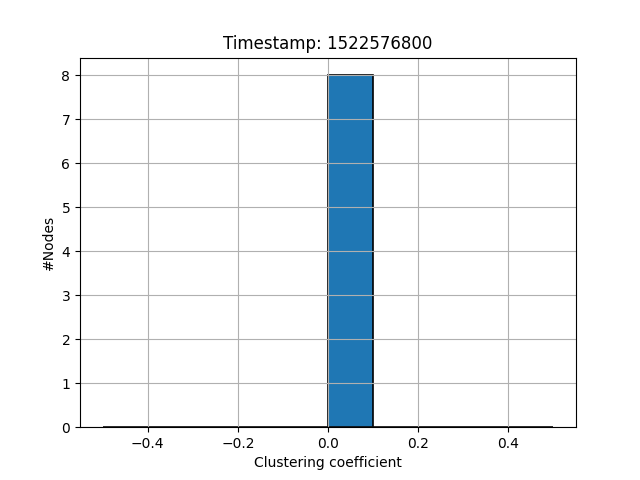
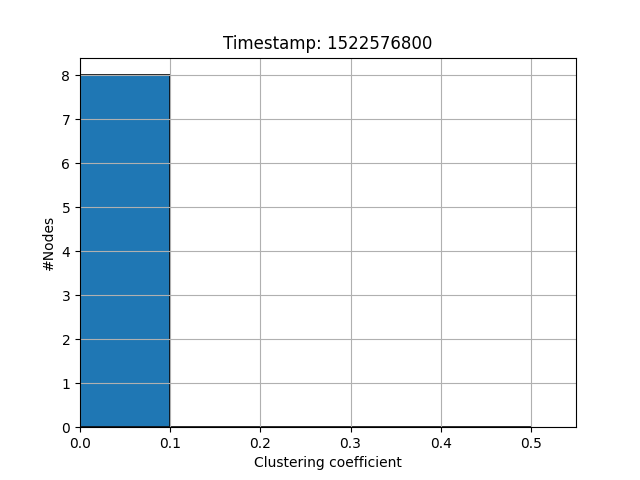
clustering coeff plots

diff --git a/analysis/betweenness.py b/analysis/betweenness.py
@@ -38,6 +38,7 @@ def draw_histogram(df, title, filePath):
     # print('Bins: ', bins)
     axarr = df.hist(bins=10, edgecolor='black', linewidth=1.2)
     for ax in axarr.flatten():
+        ax.set_xlim(left=0.)
         ax.set_ylabel('#Nodes')
         ax.set_xlabel('Clustering coefficient')
 
@@ -140,7 +141,7 @@ timestamps = [
     1609498800
 ]
 
-graphTimestamp = 1522576800
+graphTimestamp = timestamps[8]
 baseAmount = 1000000000
            # 100000000 -> 0,001 BTC
            # 1000000000 -> 0,01 BTC
